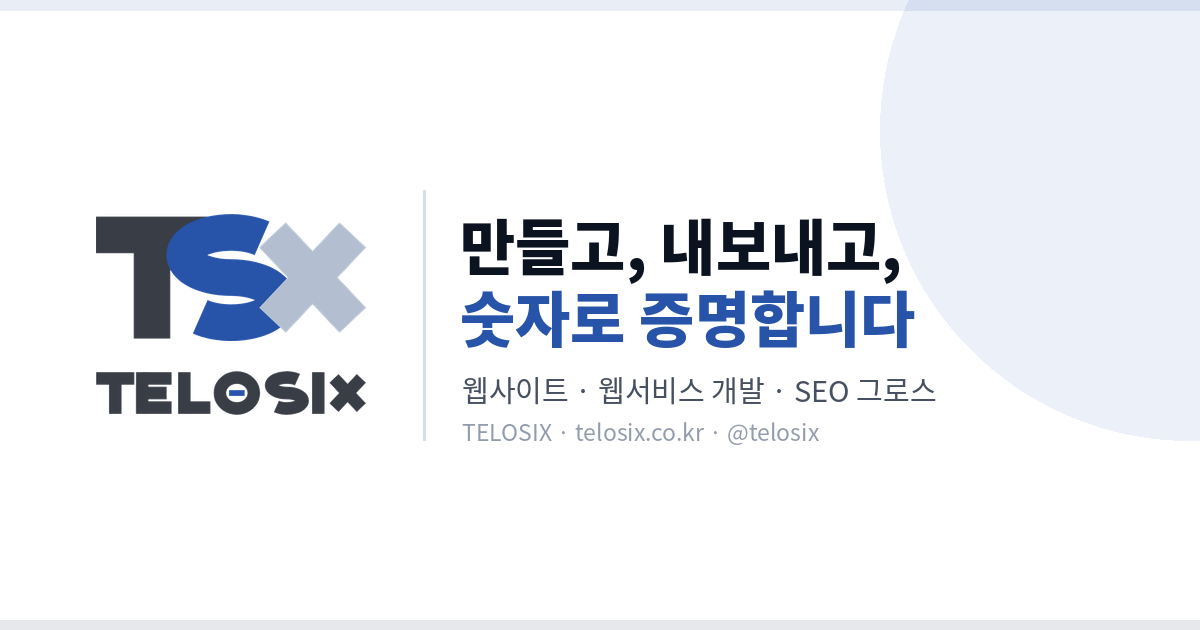
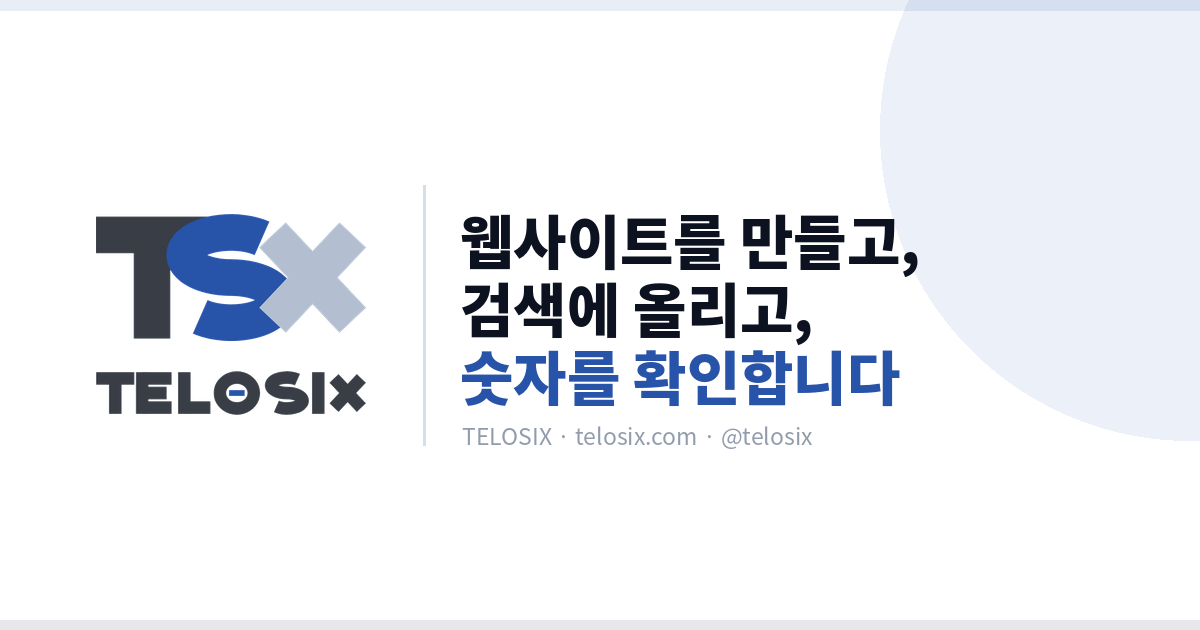
대표 도메인을 telosix.com 으로 변경
- site.url 변경 → 캐노니컬 · 사이트맵 · robots · OG · JSON-LD 모두 반영
- 푸터 표기와 OG 이미지 문구를 새 도메인으로 교체
- README 에 telosix.co.kr → telosix.com 리다이렉트 설정 안내 추가

Claude-Session: https://claude.ai/code/session_013JyEJ4FG15dUAPXcMbaPGF

Changed region(s): [[0.37, 0.3317, 0.7708, 0.7238]]

diff --git a/src/lib/site.ts b/src/lib/site.ts
@@ -1,7 +1,7 @@
 export const site = {
   name: "TELOSIX",
   legalName: "TELOSIX (텔로식스)",
-  url: "https://telosix.co.kr",
+  url: "https://telosix.com",
   locale: "ko_KR",
   tagline: "웹사이트를 만들고, 검색에 올리고, 숫자를 확인합니다",
   description:

diff --git a/src/components/Footer.tsx b/src/components/Footer.tsx
@@ -19,7 +19,7 @@ export default function Footer() {
             @{site.instagram}
           </a>
           <span className="px-3">·</span>
-          telosix.co.kr
+          telosix.com
         </p>
       </div>
     </footer>

diff --git a/README.md b/README.md
@@ -25,8 +25,12 @@ Node.js 20 이상이 필요합니다.
 1. 이 폴더를 GitHub 저장소에 올립니다.
 2. [vercel.com](https://vercel.com) → **Add New → Project** → 저장소 선택 → Deploy.
    (설정은 건드릴 필요 없이 자동 인식됩니다.)
-3. Vercel 프로젝트 → **Settings → Domains** 에서 `telosix.co.kr` 연결.
-   도메인 등록기관(가비아 등)에서 안내되는 A / CNAME 레코드를 넣어주면 됩니다.
+3. Vercel 프로젝트 → **Settings → Domains** 에서 `telosix.com` 연결.
+   도메인 등록기관에서 안내되는 A / CNAME 레코드를 넣어주면 됩니다.
+4. `telosix.co.kr` 도 갖고 있다면 같은 화면에서 함께 추가하고
+   **Redirect to telosix.com (307/301)** 로 설정합니다.
+   두 주소에서 같은 사이트가 각각 열리면 검색엔진이 중복 문서로 취급하니
+   반드시 한쪽으로 넘겨야 합니다.
 
 ## 3. 내용 수정하는 법
 
@@ -63,10 +67,11 @@ FAQ를 수정하면 검색결과용 구조화 데이터(FAQ 스키마)도 자동
 
 1. **Google Search Console** 등록 → 소유권 확인 코드 발급 →
    `src/app/layout.tsx` 하단의 `verification` 주석을 해제하고 코드 입력 →
-   `https://telosix.co.kr/sitemap.xml` 제출.
+   `https://telosix.com/sitemap.xml` 제출.
 2. **네이버 서치어드바이저** 등록 → 같은 방식으로 `naver-site-verification` 코드 입력 → 사이트맵 제출.
 3. **Google Analytics 4** 속성 생성 후 측정 ID 연결(필요 시 요청 주세요).
-4. 도메인 연결 후 `src/lib/site.ts` 의 `url` 값이 실제 도메인과 같은지 확인.
+4. 도메인을 바꾸게 되면 `src/lib/site.ts` 의 `url` 한 줄만 고치면 됩니다.
+   캐노니컬·사이트맵·robots·OG·구조화 데이터가 모두 이 값을 따라갑니다.
 
 ## 5. 폴더 구조
 
